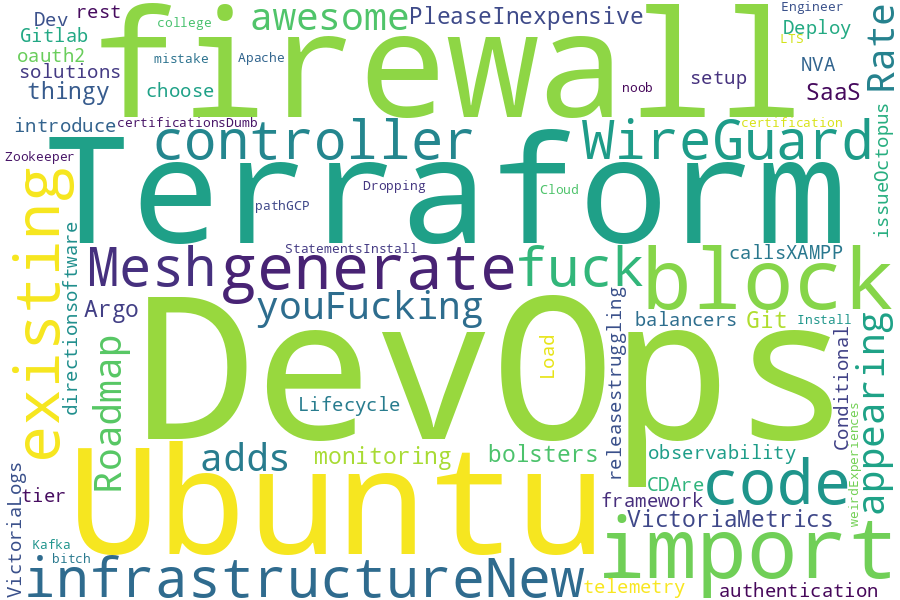
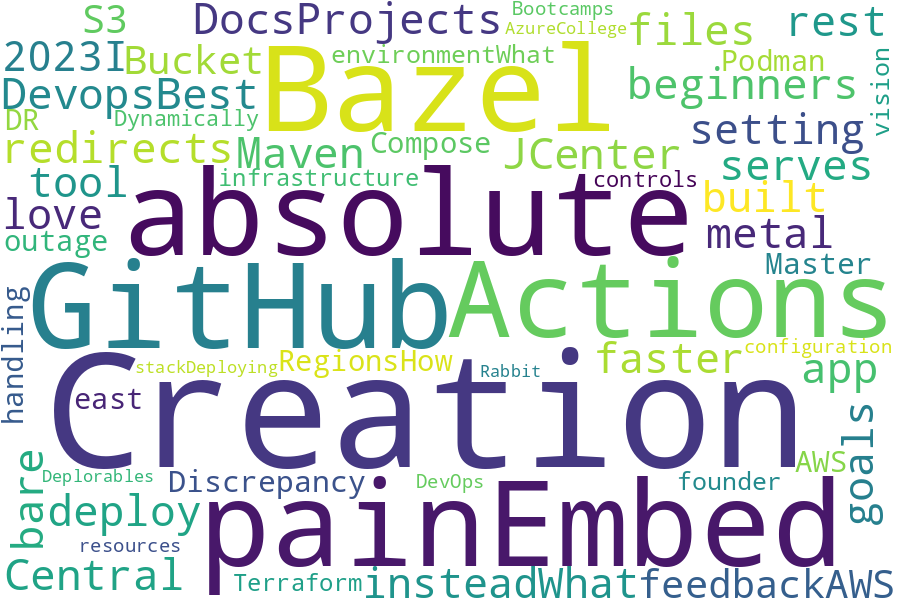
Updated profile.

diff --git a/README.md b/README.md
@@ -44,13 +44,13 @@ Here are some ideas to get you started:
 
 | Title | Author | Score |
 |:---|:---|:---|
-| [Terraform import block allows to generate code from existing infrastructure](https://www.reddit.com/r/devops/comments/14gfz73/terraform_import_block_allows_to_generate_code/) | Conscious__Use | 168 |
-| [New controller-less WireGuard Mesh - Because fuck you](https://www.reddit.com/r/devops/comments/14g1plu/new_controllerless_wireguard_mesh_because_fuck_you/) | jews4beer | 164 |
-| [Fucking awesome. Not no adds at all appearing in this sub.](https://www.reddit.com/r/devops/comments/14gctv4/fucking_awesome_not_no_adds_at_all_appearing_in/) | dn512215 | 72 |
-| [Rate my DevOps Roadmap Please](https://www.reddit.com/r/devops/comments/14gjv2c/rate_my_devops_roadmap_please/) | checkthatcloud | 3 |
-| [Inexpensive SaaS Git and Argo thingy...](https://www.reddit.com/r/devops/comments/14gktgu/inexpensive_saas_git_and_argo_thingy/) | Fluffer_Wuffer | 3 |
-| [VictoriaMetrics bolsters move from monitoring to observability with VictoriaLogs release](https://www.reddit.com/r/devops/comments/14g2evw/victoriametrics_bolsters_move_from_monitoring_to/) | terryfilch | 2 |
-| [struggling and need some direction](https://www.reddit.com/r/devops/comments/14gvejb/struggling_and_need_some_direction/) | JadedJelly803 | 1 |
-| [software Dev Lifecycle - when to introduce NVA/firewall/Load balancers?](https://www.reddit.com/r/devops/comments/14gvq0o/software_dev_lifecycle_when_to_introduce/) | nextlevelsolution | 1 |
-| [how to setup oauth2.0 authentication for rest calls](https://www.reddit.com/r/devops/comments/14gtkmh/how_to_setup_oauth20_authentication_for_rest_calls/) | GetFit_Messi | 1 |
-| [XAMPP and Firewall issue](https://www.reddit.com/r/devops/comments/14gub2p/xampp_and_firewall_issue/) | broken_py | 1 |
+| [Bazel is absolute pain](https://www.reddit.com/r/devops/comments/14h8a8e/bazel_is_absolute_pain/) | sosou1366 | 70 |
+| [Embed GitHub Actions in your Docs](https://www.reddit.com/r/devops/comments/14h1rbb/embed_github_actions_in_your_docs/) | sourishkrout | 23 |
+| [Projects for beginners in Devops](https://www.reddit.com/r/devops/comments/14hl4ha/projects_for_beginners_in_devops/) | sissy9989 | 15 |
+| [Best way to deploy c++ app on bare metal?](https://www.reddit.com/r/devops/comments/14gzlfs/best_way_to_deploy_c_app_on_bare_metal/) | wannabe_rebel | 10 |
+| [JCenter no longer serves files but redirects to Maven Central instead](https://www.reddit.com/r/devops/comments/14h4gg9/jcenter_no_longer_serves_files_but_redirects_to/) | DIYEngineeringTx | 5 |
+| [What kind of goals are you setting in for the rest of 2023](https://www.reddit.com/r/devops/comments/14hh1pj/what_kind_of_goals_are_you_setting_in_for_the/) | cornymentality57 | 4 |
+| [I built a faster CI tool and I'd love your feedback](https://www.reddit.com/r/devops/comments/14hciw8/i_built_a_faster_ci_tool_and_id_love_your_feedback/) | reillyse | 3 |
+| [AWS S3 Bucket Creation Date Discrepancy In Master And Other Regions](https://www.reddit.com/r/devops/comments/14gzhs0/aws_s3_bucket_creation_date_discrepancy_in_master/) | heldsteel7 | 3 |
+| [How is Podman Compose?](https://www.reddit.com/r/devops/comments/14h0u3h/how_is_podman_compose/) | -lousyd | 2 |
+| [AWS us-east-1 outage handling in DR environment](https://www.reddit.com/r/devops/comments/14hmwtm/aws_useast1_outage_handling_in_dr_environment/) | ayeshabashara | 2 |
